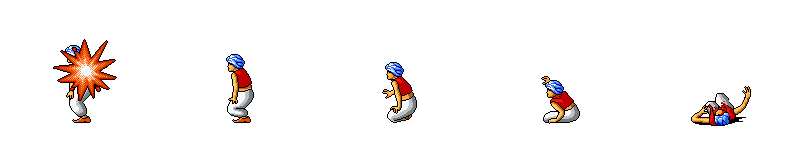
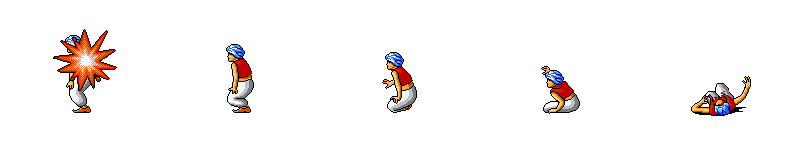
minor bug fixes dying animation had wrong height prince was engaging dead enemies reset now works even if prince is dead

diff --git a/Prince of Persia/Game.cpp b/Prince of Persia/Game.cpp
@@ -119,8 +119,8 @@ Game::Game(HWND hwnd, Input* in) :
 void Game::GameLoop() {	
 	graphics.BeginFrame();
 	
+	HandleInput();
 	if (!prince->isDead()) {
-		HandleInput();
 		ControlAI();
 		CheckCollision();
 	}
@@ -826,9 +826,11 @@ void Game::DrawForeground() {
 void Game::Reset() {
 	level->loadLevel(1);
 
+	prince = new Prince();
 	prince->setX(2 * Level::BLOCK_WIDTH_PX);
 	prince->setY(prince->getAnim()->getSheet()->getFrameHeight() - Level::FOOT_FLOAT);
 	prince->setState(sIdle);
+	
 }
 
 Game::~Game() {}

diff --git a/Prince of Persia/Character.cpp b/Prince of Persia/Character.cpp
@@ -157,8 +157,12 @@ void Character::FaceCharacter(Character& character, Level& level) {
 void Character::EngageEnemy(Character & enemy) {
 	if (!isFighting()) {
 		if (this->getAnim() == idle) {
-			this->setCurrentAnim(fightStart);
-			inFight = true;
+			if (seenEnemies.find(&enemy) == seenEnemies.end()) {
+				std::pair<Character*, bool>  node = std::make_pair<Character*, bool>(&enemy, true);
+				seenEnemies.insert(node);
+				this->setCurrentAnim(fightStart);
+				inFight = true;
+			}
 		}
 	}
 }

diff --git a/Prince of Persia/Character.h b/Prince of Persia/Character.h
@@ -3,7 +3,13 @@
 #include "Animation.h"
 #include "Entity.h"
 
+#include <list>
+#include <map>
+
+
 class Level;
+
+//std::list<Character*>;
 
 enum Action { aLeftJump, aRightJump, aJumpGrab, aCrouch, aGoRight, aGoLeft, aClimbUp, aClimbDown, aLeftStep, aRightStep, aHang, aNone, aStrike, aParry, aEngage, aDisengage };
 
@@ -66,6 +72,8 @@ protected:
 	Animation* swordDeath;
 	Animation* guilotineDeath;
 	Animation* spikeDeath;
+
+	std::map<Character*, bool> seenEnemies;
 
 //variables
 protected:

diff --git a/Prince of Persia/Level.cpp b/Prince of Persia/Level.cpp
@@ -54,6 +54,7 @@ void Level::loadLevel(int l) {
 	int gateY;
 
 	mechanism->clear();
+	characters->clear();
 
 	while (fscanf(file, "%d", &platY) > 0 && fscanf(file, "%d", &platX) > 0 &&
 		   fscanf(file, "%d", &gateY) > 0 && fscanf(file, "%d", &gateX) > 0) {
